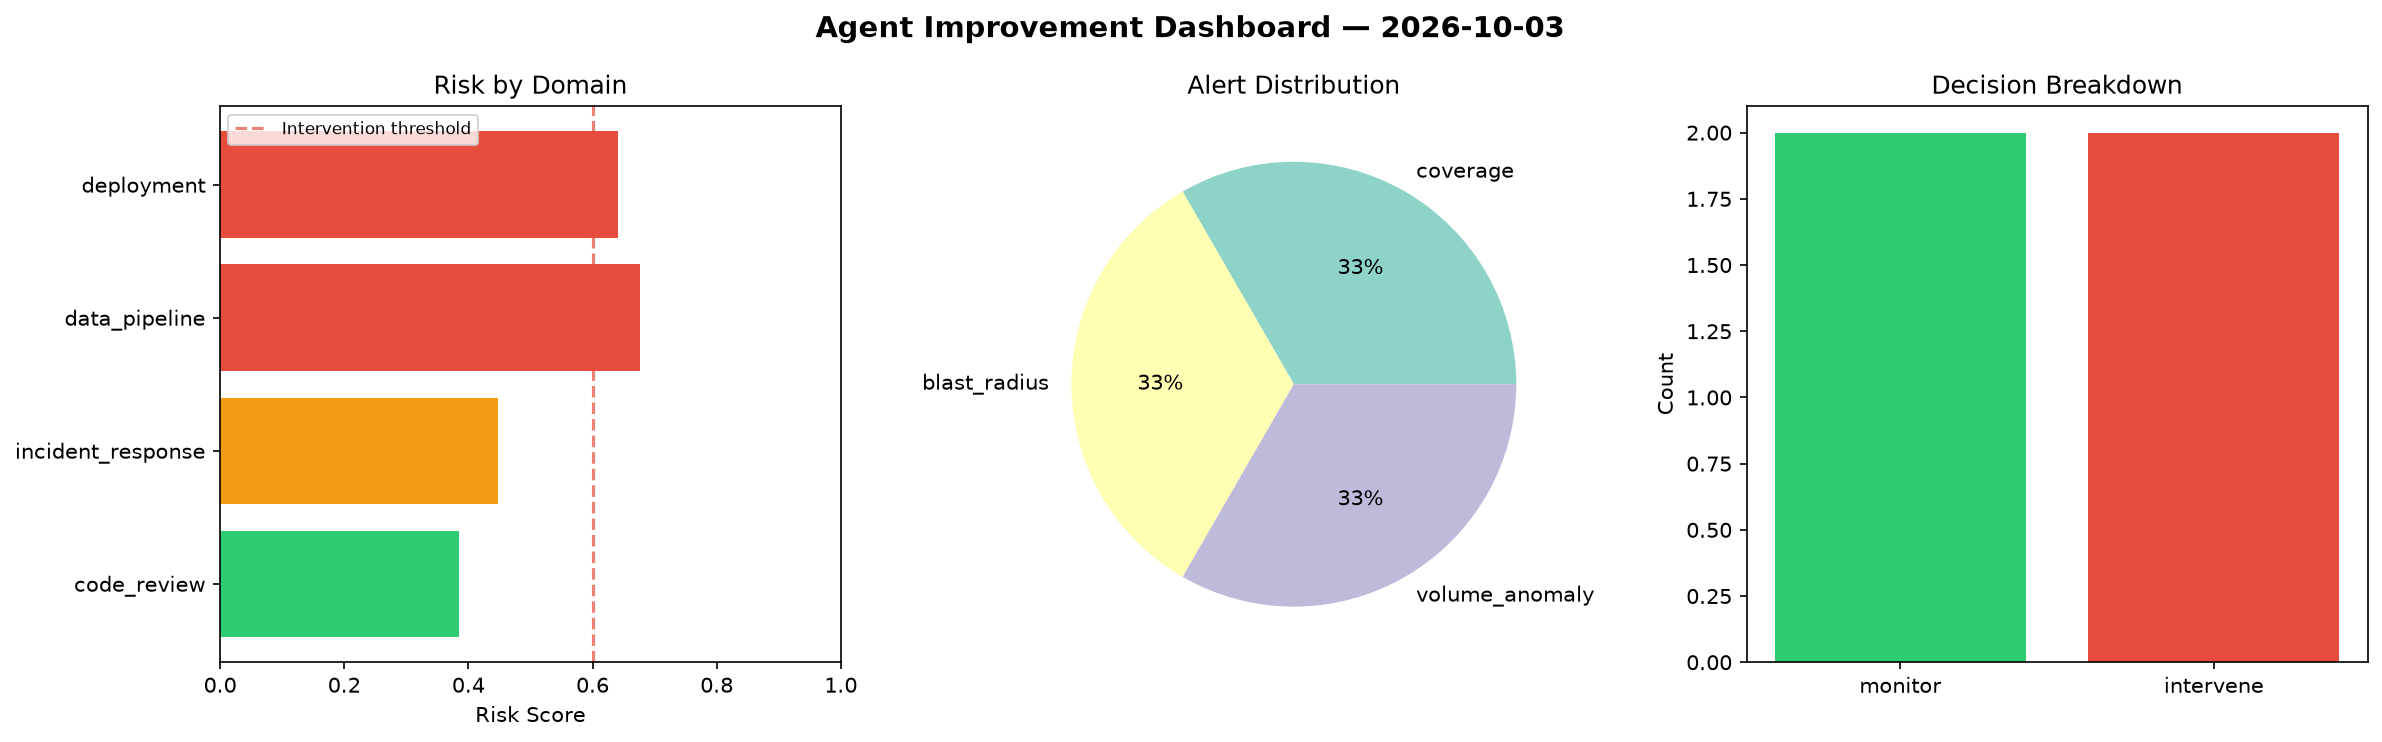
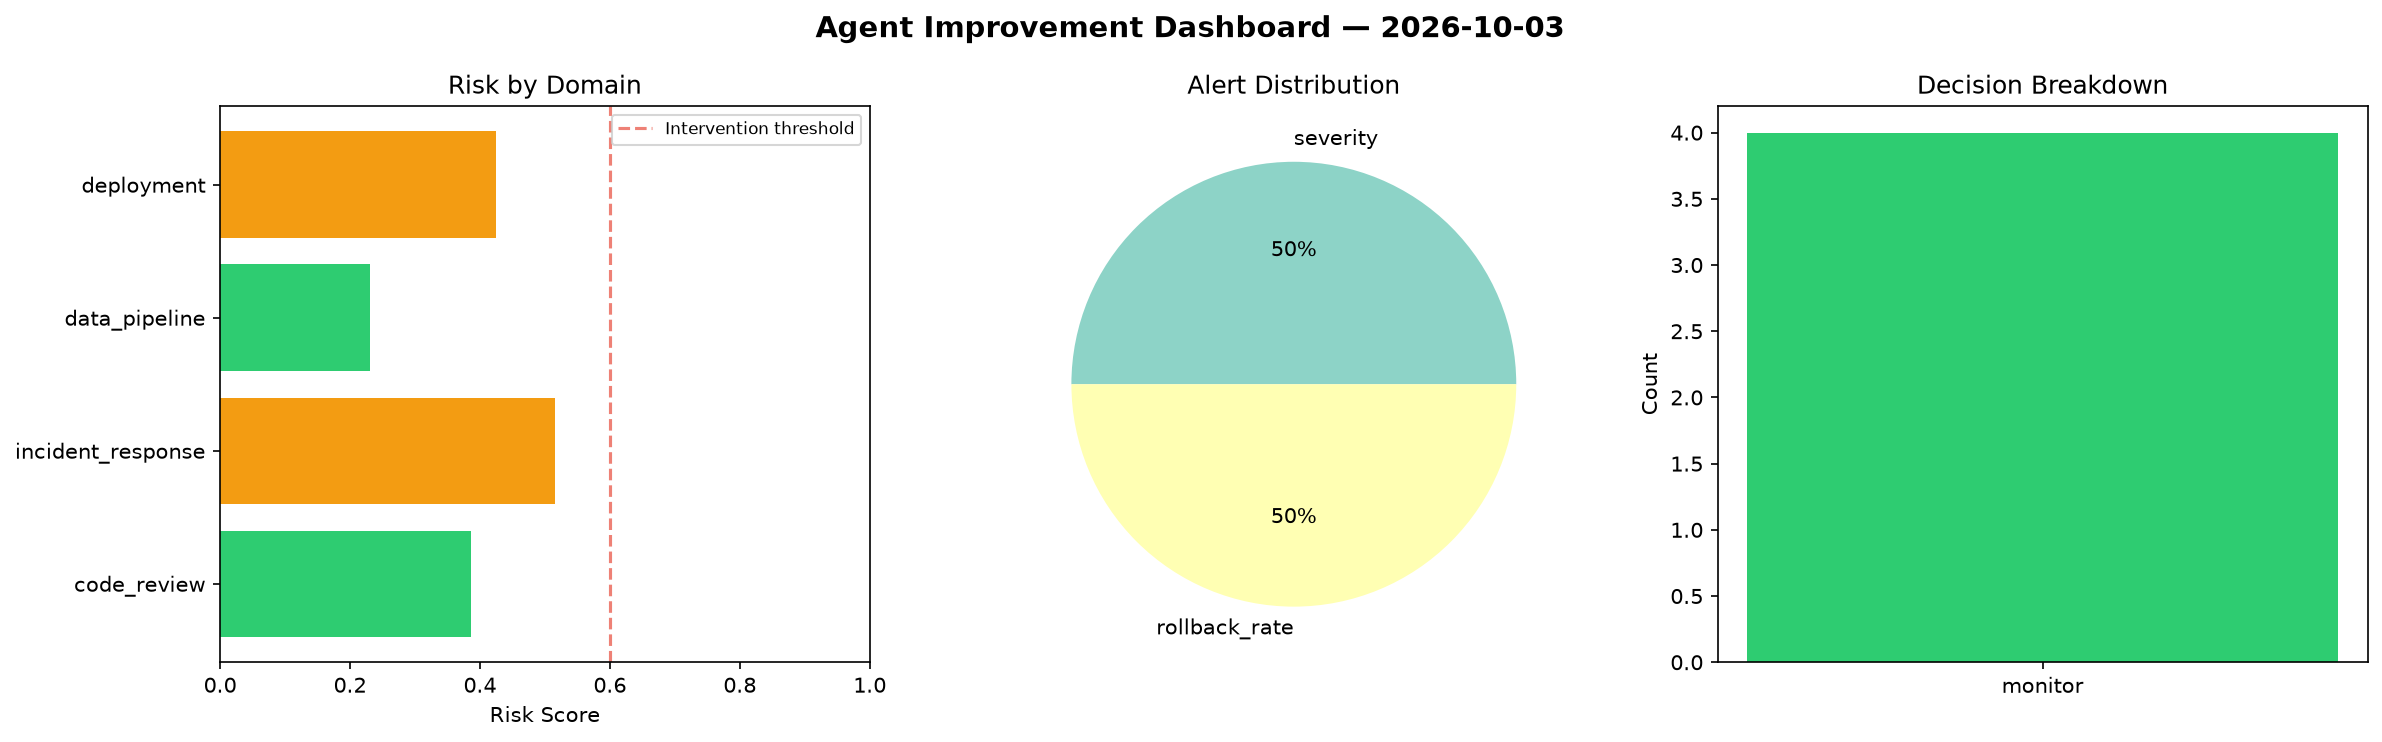
agent-improvement: daily cycle 2026-10-03T13:23

diff --git a/logs/2026-10-03.md b/logs/2026-10-03.md
@@ -1,6 +1,6 @@
 # Agent Improvement Report — 2026-10-03
 
-**Cycle ID:** `12c996ec` | **Avg Risk:** 0.5374 | **Interventions:** 2/4
+**Cycle ID:** `79e0a057` | **Avg Risk:** 0.3895 | **Interventions:** 0/4
 
 ![Dashboard](2026-10-03_dashboard.png)
 
@@ -10,18 +10,18 @@
 
 | Domain | Risk Score | Decision | Alerts |
 |--------|-----------|----------|--------|
-| code_review | 0.3852 | monitor | coverage |
-| incident_response | 0.4484 | monitor | blast_radius |
-| data_pipeline | 0.6756 | intervene | volume_anomaly |
-| deployment | 0.6405 | intervene | none |
+| code_review | 0.3867 | monitor | none |
+| incident_response | 0.516 | monitor | severity |
+| data_pipeline | 0.2304 | monitor | none |
+| deployment | 0.4249 | monitor | rollback_rate |
 
 ## Delta vs Yesterday
 
 | Domain | Today | Yesterday | Change |
 |--------|-------|-----------|--------|
-| code_review | 0.3852 | 0.7279 | 📉 -47.1% |
-| incident_response | 0.4484 | 0.5574 | 📉 -19.6% |
-| data_pipeline | 0.6756 | 0.6619 | 📈 2.1% |
-| deployment | 0.6405 | 0.3732 | 📈 71.6% |
+| code_review | 0.3867 | 0.7279 | 📉 -46.9% |
+| incident_response | 0.516 | 0.5574 | 📉 -7.4% |
+| data_pipeline | 0.2304 | 0.6619 | 📉 -65.2% |
+| deployment | 0.4249 | 0.3732 | 📈 13.9% |
 
 **Refinement:** `{'adjustment': 'tighten_thresholds', 'trend': 'degrading', 'window': 4}`
